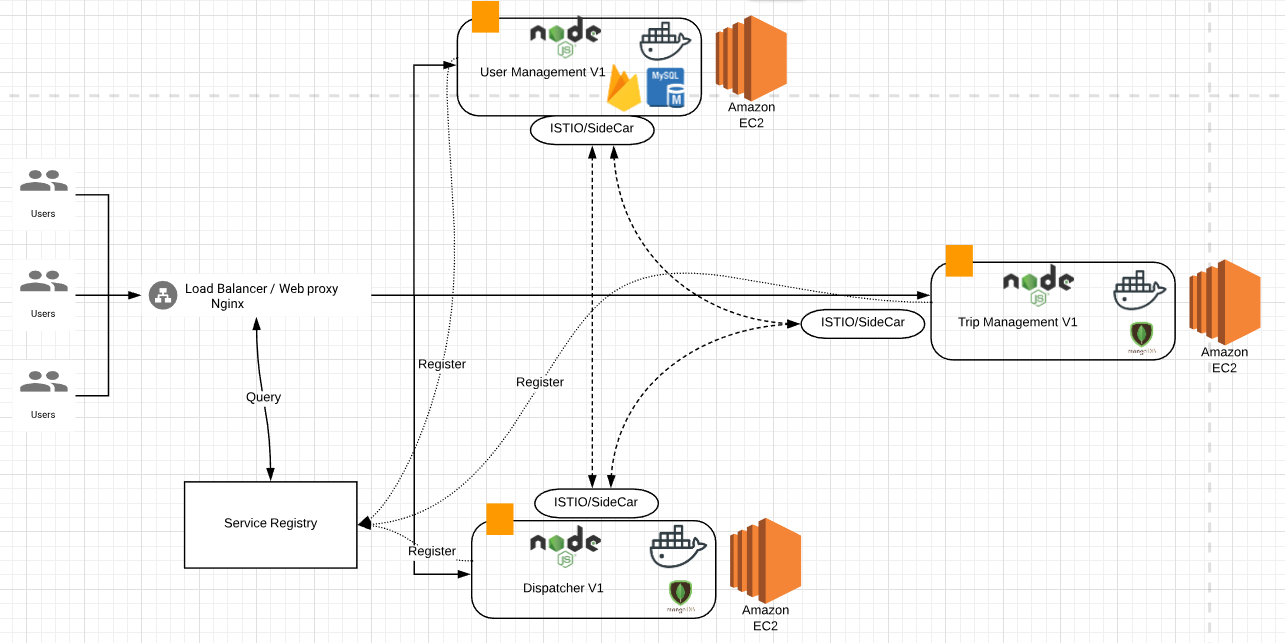
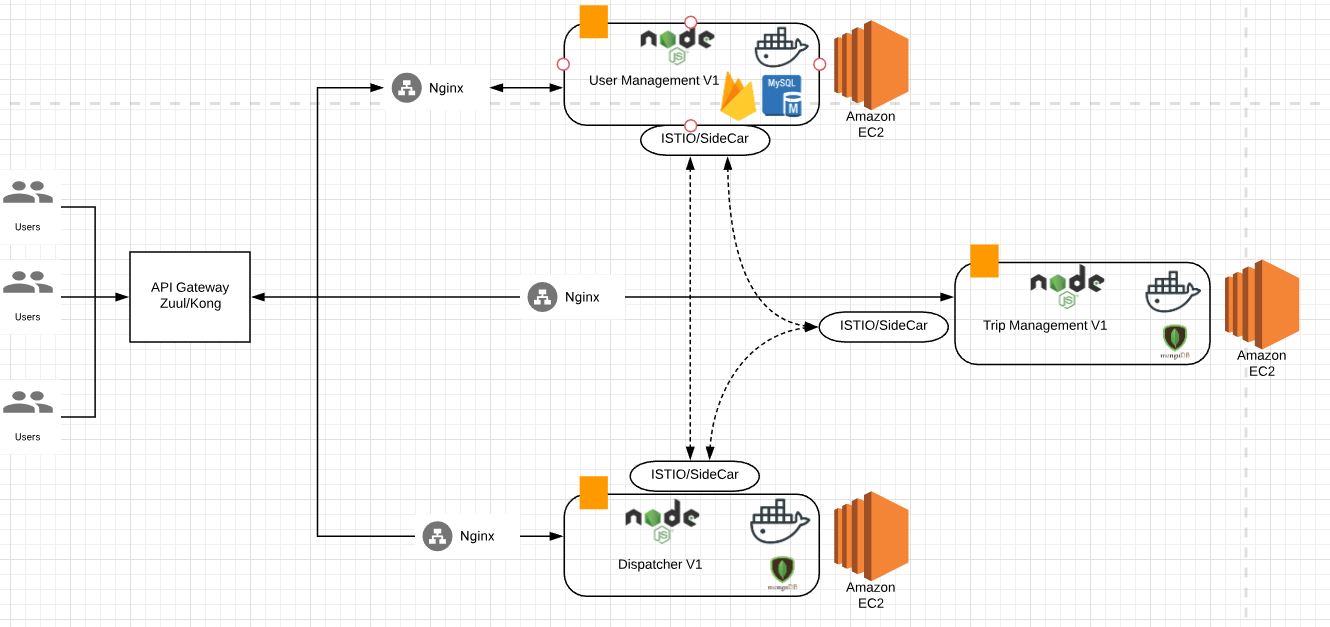
Updated flow diagrams

diff --git a/README.md b/README.md
@@ -6,3 +6,7 @@
 # Technical Architecture 
 
 ![alt text](https://raw.githubusercontent.com/raghav-chamarthy/Uber-replica/master/Technical-architecture.PNG)
+
+# Dispatcher System
+
+![alt text](https://raw.githubusercontent.com/raghav-chamarthy/Uber-replica/master/Dispatcher-system.PNG)
